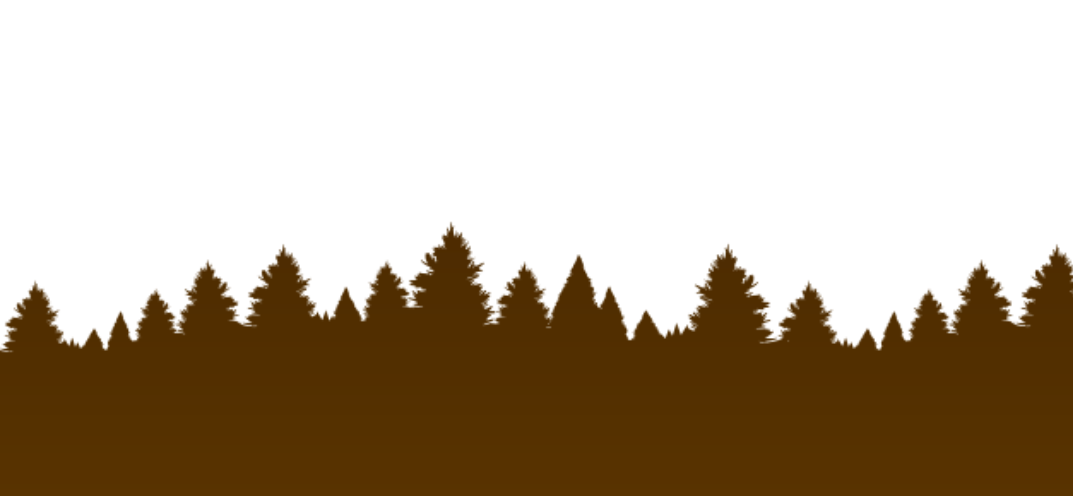
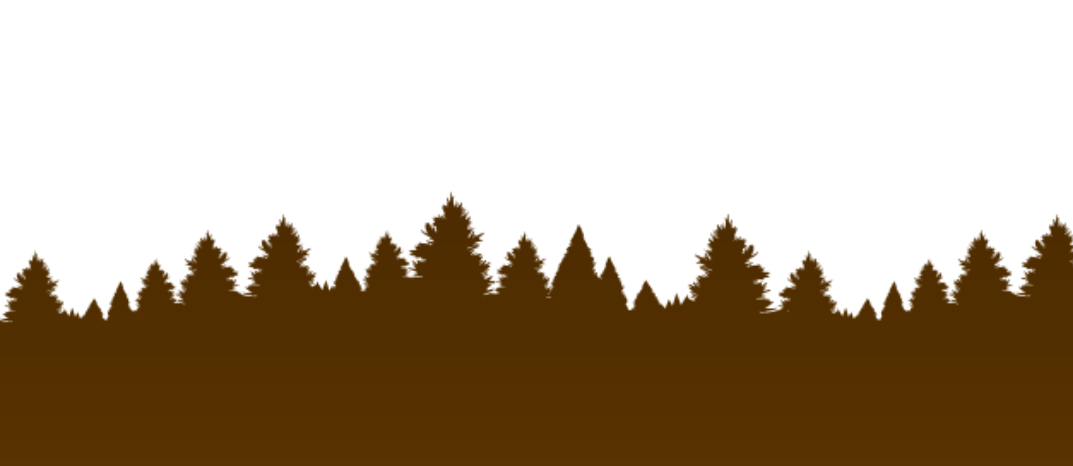
homepage parallex now work fine with scroll

Changed region(s): [[0.0, 0.4206, 1.0, 0.721]]

diff --git a/src/pages/home/Home.tsx b/src/pages/home/Home.tsx
@@ -1,17 +1,32 @@
-import React, { useState } from 'react';
+//TODO: make  leabes also go away with the scroll thing
+
+import { useEffect, useState, useRef } from 'react';
 import mountains from '../../assets/mountains.png';
 import backTrees from '../../assets/back-tree.png';
 import midTrees from '../../assets/mid-tree.png';
 import frontTrees from '../../assets/tree-front.png';
 import profile from '../../assets/profile.png';
-import leftLeaves from '../../assets/right-leaves.png'; // You might want to rename this variable if it's actually right leaves.
+import leftLeaves from '../../assets/right-leaves.png';
 import rightLeaves from '../../assets/left-leaves.png';
 import './home.css';
 import About from '../about/About';
-import 'atropos/css';
 import { Atropos } from 'atropos/react';
 
 export default function Home() {
+  const containerRef = useRef<HTMLDivElement>(null);
+
+  useEffect(() => {
+    if (containerRef.current) {
+      const viewportWidth = window.innerWidth;
+      const leftPosition = (viewportWidth * 0.1); // 10vw equivalent
+
+      containerRef.current.scrollTo({
+        top: 0,
+        left: leftPosition
+      });
+    }
+  }, []);
+
   const [scrollTop, setScrollTop] = useState(0);
 
   const handleScroll = (event: any) => {
@@ -26,44 +41,40 @@ export default function Home() {
     const leftLeaves = document.getElementById('leftLeaves');
     const rightLeaves = document.getElementById('rightLeaves');
 
-    if (mountains && backTrees && midTrees && profile && frontTrees && leftLeaves && rightLeaves) {
-      mountains.style.top = `${scrollTop * 0.5}px`;
-      backTrees.style.top = `${scrollTop * 0.3}px`;
-      midTrees.style.top = `${scrollTop * 0.2}px`;
-      profile.style.top = `${scrollTop * 0.1}px`;
-      // profile.style.left = `${scrollTop * -2}px`
-      // profile.style.width = `${scrollTop * 1.0}px`;
-      frontTrees.style.top = `${scrollTop * 0.1}px`;
-      leftLeaves.style.top = `${scrollTop * -0.5}px`;
-      leftLeaves.style.left = `${scrollTop * -0.5}px`;
-      rightLeaves.style.top = `${scrollTop * -0.5}px`;
-      rightLeaves.style.left = `${scrollTop * 0.5}px`;
-    }
+    
+      mountains!.style.top = `${scrollTop * 0.5}px`;
+      backTrees!.style.top = `${scrollTop * 0.3}px`;
+      midTrees!.style.top = `${scrollTop * 0.2}px`;
+      profile!.style.top = `${scrollTop * 0.1}px`;
+      frontTrees!.style.top = `${scrollTop * 0.1}px`;
+      
+    
   };
 
 
-
   return (
-    <div className='body1 content-center items-center justify-center' onScroll={handleScroll}>
-      <div className='imageContainer content-center items-center justify-center'>
+    <div
+      id='main'
+      ref={containerRef}
+      className='body1 content-center items-center justify-center'
+      onScroll={handleScroll}
+    >
+      <div className='imageContainer content-center items-center justify-center' id='inner'>
         <Atropos className="my-atropos content-center items-center justify-center"
-          activeOffset={20}
+          activeOffset={10}
           shadowScale={0}
           onEnter={() => console.log('Enter')}
           onLeave={() => console.log('Leave')}
           onRotate={(x, y) => console.log('Rotate', x, y)}
         >
-
           <img className='img1' data-atropos-offset="-2" id='mountains' src={mountains} alt="" />
           <img className='img1' data-atropos-offset="-1.5" id='backTrees' src={backTrees} alt="" />
           <img className='img1' data-atropos-offset="-1" id='midTrees' src={midTrees} alt="" />
-          {/* <div className='img1' data-atropos-offset="-5" id='profileBack'></div> */}
           <img className='img1' data-atropos-offset="-0.5" id='profile' src={profile} alt="" />
           <img className='img1' data-atropos-offset="1" id='frontTrees' src={frontTrees} alt="" />
           <img className='img1' data-atropos-offset="1.5" id='leftLeaves' src={leftLeaves} alt="" />
           <img className='img1' data-atropos-offset="2" id='rightLeaves' src={rightLeaves} alt="" />
         </Atropos>
-
       </div>
       <About />
     </div>

diff --git a/src/pages/about/About.tsx b/src/pages/about/About.tsx
@@ -1,8 +1,7 @@
-import React from 'react'
 
 export default function About() {
   return (
-    <section className='relative min-h-[calc(100vh)] bg-brown-50 pt-80'>
+    <section className='relative h-[calc(120vh)] w-[calc(120vw)] bg-brown-50 pt-80 m-auto'>
         Lorem ipsum dolor sit amet consectetur, adipisicing elit. Reiciendis ducimus asperiores ea consequatur a explicabo, tempora, eligendi perspiciatis, architecto tenetur aperiam dicta laboriosam officia autem dolorem culpa animi enim labore.
         Lorem ipsum dolor sit amet consectetur, adipisicing elit. Reiciendis ducimus asperiores ea consequatur a explicabo, tempora, eligendi perspiciatis, architecto tenetur aperiam dicta laboriosam officia autem dolorem culpa animi enim labore.
         Lorem ipsum dolor sit amet consectetur, adipisicing elit. Reiciendis ducimus asperiores ea consequatur a explicabo, tempora, eligendi perspiciatis, architecto tenetur aperiam dicta laboriosam officia autem dolorem culpa animi enim labore.

diff --git a/src/pages/home/home.css b/src/pages/home/home.css
@@ -20,35 +20,38 @@
 
 .imageContainer {
   position: relative;
-  height: 100%; /* Ensure container stretches to fit content */
-  width: 150vw;
-  overflow: visible;
+  height: 100%;
+  width: 120vw;
 }
 
 .img1 {
   position: absolute;
-  top: 0;
+  top: -10;
   left: 0;
   width: 100%;
+
 }
 
 #leftLeaves {
   width: 50vw;
-  animation: swayReverse 5s ease-in-out infinite alternate; /* Adjust timing and animation as needed */
+  left: 10vw;
+  animation: swayReverse 4s ease-in-out infinite alternate;
 }
 
 #rightLeaves {
-  top : -1;
-  animation: sway 8s ease-in-out infinite alternate; /* Adjust timing and animation as needed */
+  top : 0;
+  left: 10vw;
+  animation: sway 5s ease-in-out infinite alternate; /* Adjust timing and animation as needed */
+  width: 100vw;
 }
 
 #profile {
   width: 60vw;
-  left: 20vw;
+  left: 30vw;
   top: 3vh;
 }
 
 .my-atropos {
-  width: 150vw;
-  height: 100vh;
+  width: 120vw;
+  height: 120vh;
 }

diff --git a/src/App.tsx b/src/App.tsx
@@ -1,10 +1,12 @@
-import Container from "./Container";
 
+import Home from './pages/home/Home'
+import NavbarSimple from './components/Navbar/NavBar'
 
 export default function App() {
-  return ( 
-    <div className="">
-    <Container/>
+  return (
+    <div className='w-[calc(100vw)] overflow-visible'>
+      <NavbarSimple/>
+      <Home />
     </div>
-    )
+  )
 }

diff --git a/src/main.tsx b/src/main.tsx
@@ -1,6 +1,6 @@
 import React from 'react'
 import ReactDOM from 'react-dom/client'
-import App from './App.tsx'
+import App from './App'
 import './index.css'
 import { ThemeProvider } from '@material-tailwind/react'
 
